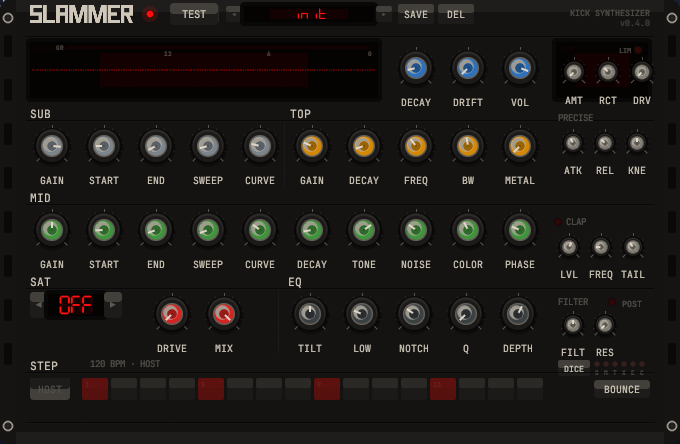
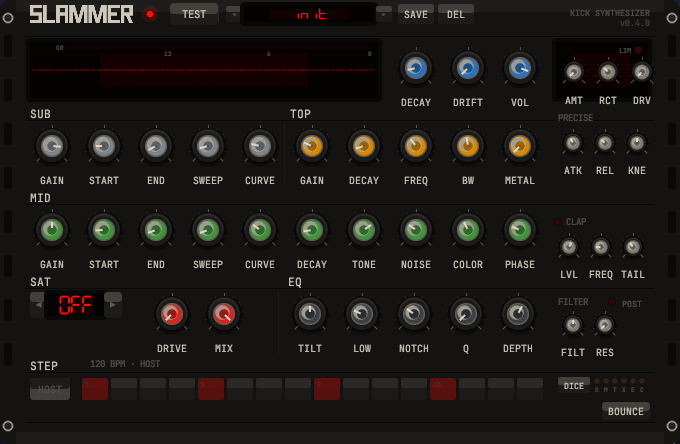
fix(ui): reposition DICE + BOUNCE for proper separator spacing
DICE row moved below the STEP groove line with breathing room.
BOUNCE button repositioned to just above the footer groove and
narrowed from 56 to 48 px. Bumps to v0.4.1.

Changed region(s): [[0.8029, 0.7905, 0.9574, 0.9369], [0.9882, 0.9955, 1.0, 1.0]]

diff --git a/src/ui/editor.rs b/src/ui/editor.rs
@@ -269,9 +269,9 @@ pub fn create(
 
                     // ===== DICE + BOUNCE (sequencer right column) =====
                     {
-                        // Sequencer row starts at sat_eq_bottom_y + 4; align
-                        // dice with the sequencer label area.
-                        let dice_top = sat_eq_bottom_y + 6.0;
+                        // DICE sits just below the STEP groove (sat_eq_bottom_y + 18),
+                        // with enough gap to not touch the separator line.
+                        let dice_top = sat_eq_bottom_y + 23.0;
                         let dice_clicked = panels::draw_dice_row(
                             ui, panel_rect, dice_top, &dice_locks,
                         );
@@ -279,7 +279,8 @@ pub fn create(
                             let locked = dice_locks.load(std::sync::atomic::Ordering::Relaxed);
                             crate::ui::randomize::randomize(setter, &params, locked);
                         }
-                        let bounce_top = dice_top + 20.0;
+                        // BOUNCE sits just above the footer groove (bottom - 22).
+                        let bounce_top = panel_rect.bottom() - 42.0;
                         let bounce_clicked = panels::draw_bounce_button(
                             ui, panel_rect, bounce_top,
                         );

diff --git a/src/ui/panels.rs b/src/ui/panels.rs
@@ -1203,7 +1203,7 @@ pub fn draw_sat_eq_row(
 /// match [`test_button`] so it reads as part of the same visual family.
 /// Returns `true` on the frame the user clicks it.
 pub fn draw_bounce_button(ui: &mut egui::Ui, panel_rect: egui::Rect, top_y: f32) -> bool {
-    let btn_w = 56.0;
+    let btn_w = 48.0;
     let btn_h = 18.0;
     let btn_x = panel_rect.right() - CONTENT_LEFT - btn_w;
     let btn_rect = egui::Rect::from_min_size(egui::pos2(btn_x, top_y), egui::vec2(btn_w, btn_h));

diff --git a/CHANGELOG.md b/CHANGELOG.md
@@ -2,6 +2,13 @@
 
 All notable changes to Slammer are documented here.
 
+## [0.4.1] — 2026-04-12
+
+### Fixes
+
+- DICE row moved below the STEP separator line with proper spacing (was touching it).
+- BOUNCE button repositioned to just above the footer groove, narrowed from 56 to 48 px.
+
 ## [0.4.0] — 2026-04-12
 
 ### New features